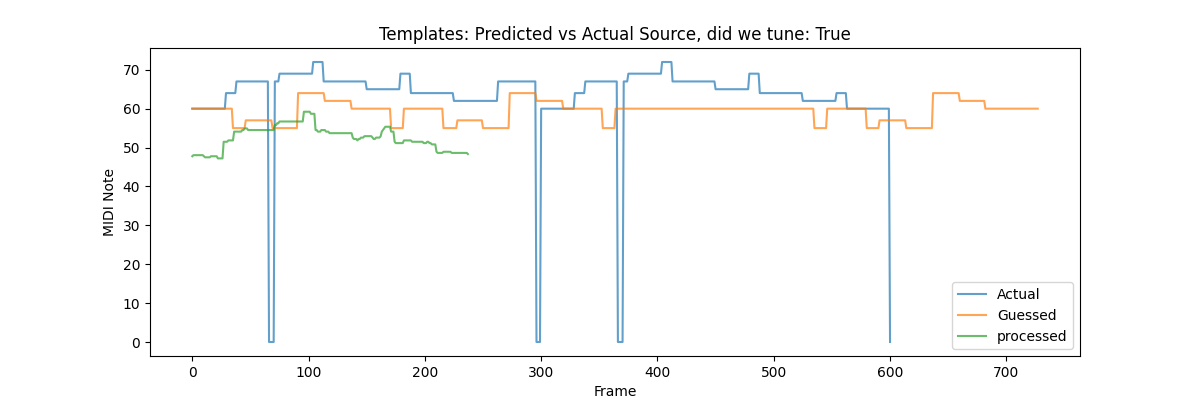
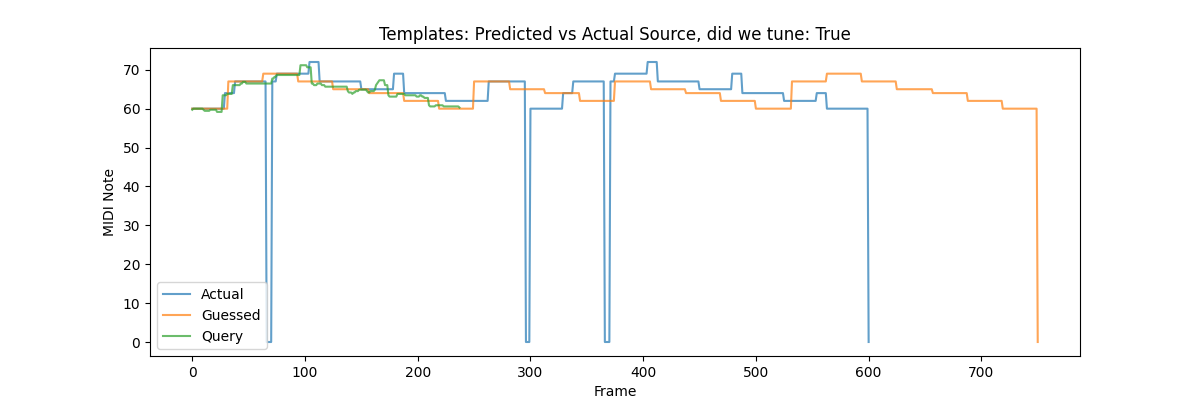
FIX: skill ISSUEU I CANT READ

diff --git a/dtw_wrapper.py b/dtw_wrapper.py
@@ -13,7 +13,7 @@ class DTWWrapper():
 
 
     def _compute_d_beg(self, query: list[float], template: list[float]):
-        return ((query[2] - query[3]) / 2) - ((template[2] - template[3]) / 2)
+        return ((query[2] + query[3]) / 2) - ((template[2] + template[3]) / 2)
 
     def _tune_follow(self,
                      query: np.ndarray,
@@ -53,11 +53,14 @@ class DTWWrapper():
                 query: np.ndarray = query_in
 
             # We DGAF about the path, we grab the final cost to get there
-            cost = librosa.sequence.dtw(X=query, Y=template)[0][-1,-1]
+            cost = librosa.sequence.dtw(
+                X=query,
+                Y=template[0:len(query)],
+                band_rad=0.5
+            )[0][-1,-1]
 
             # LAZY
             costs.append(cost)
             templates.append(template_info)
-
         # Return the most confident choice
         return templates[np.argmin(costs)]
